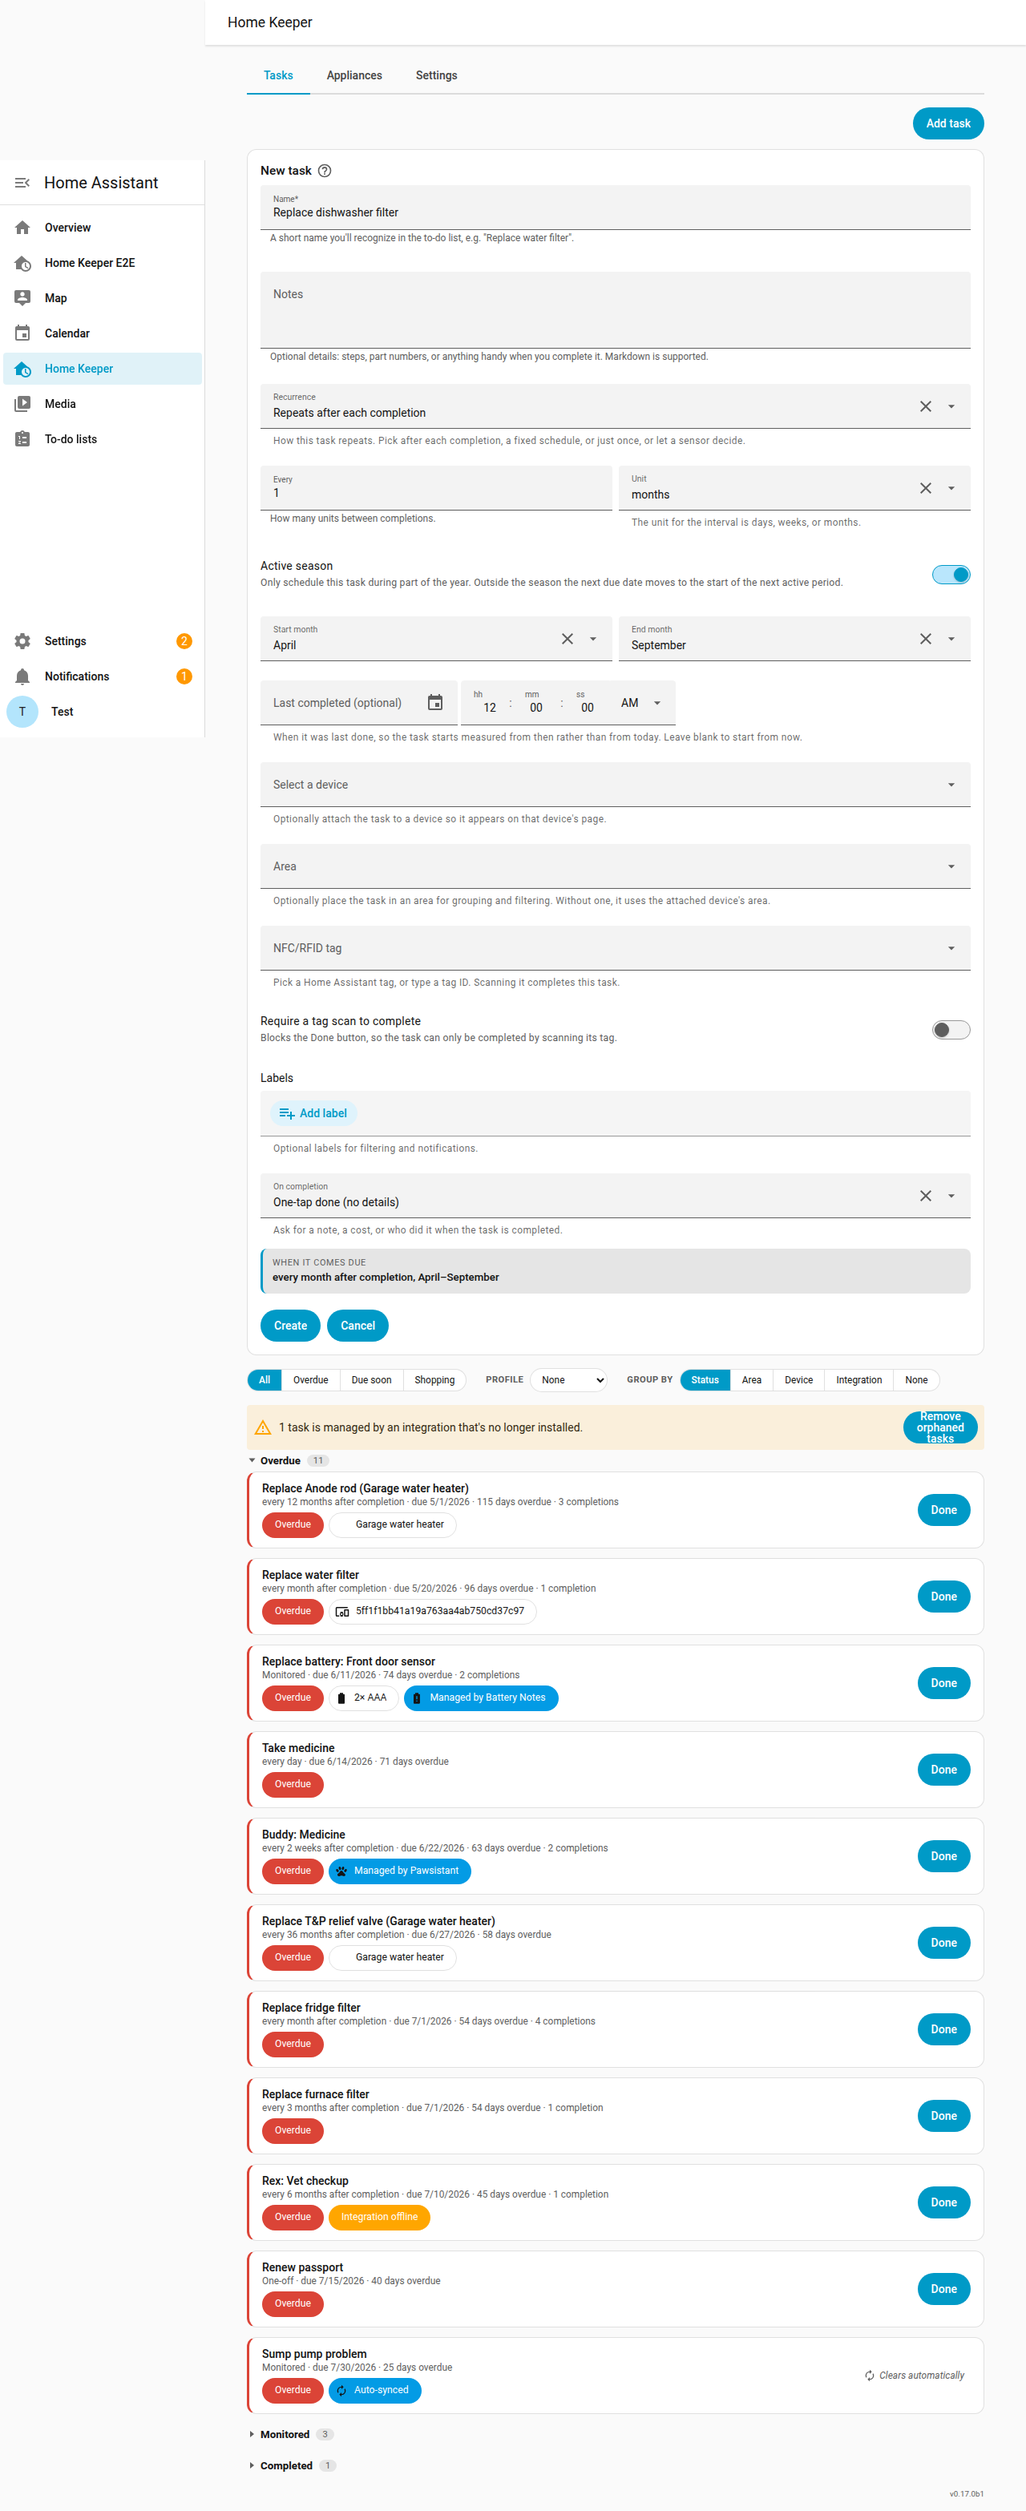
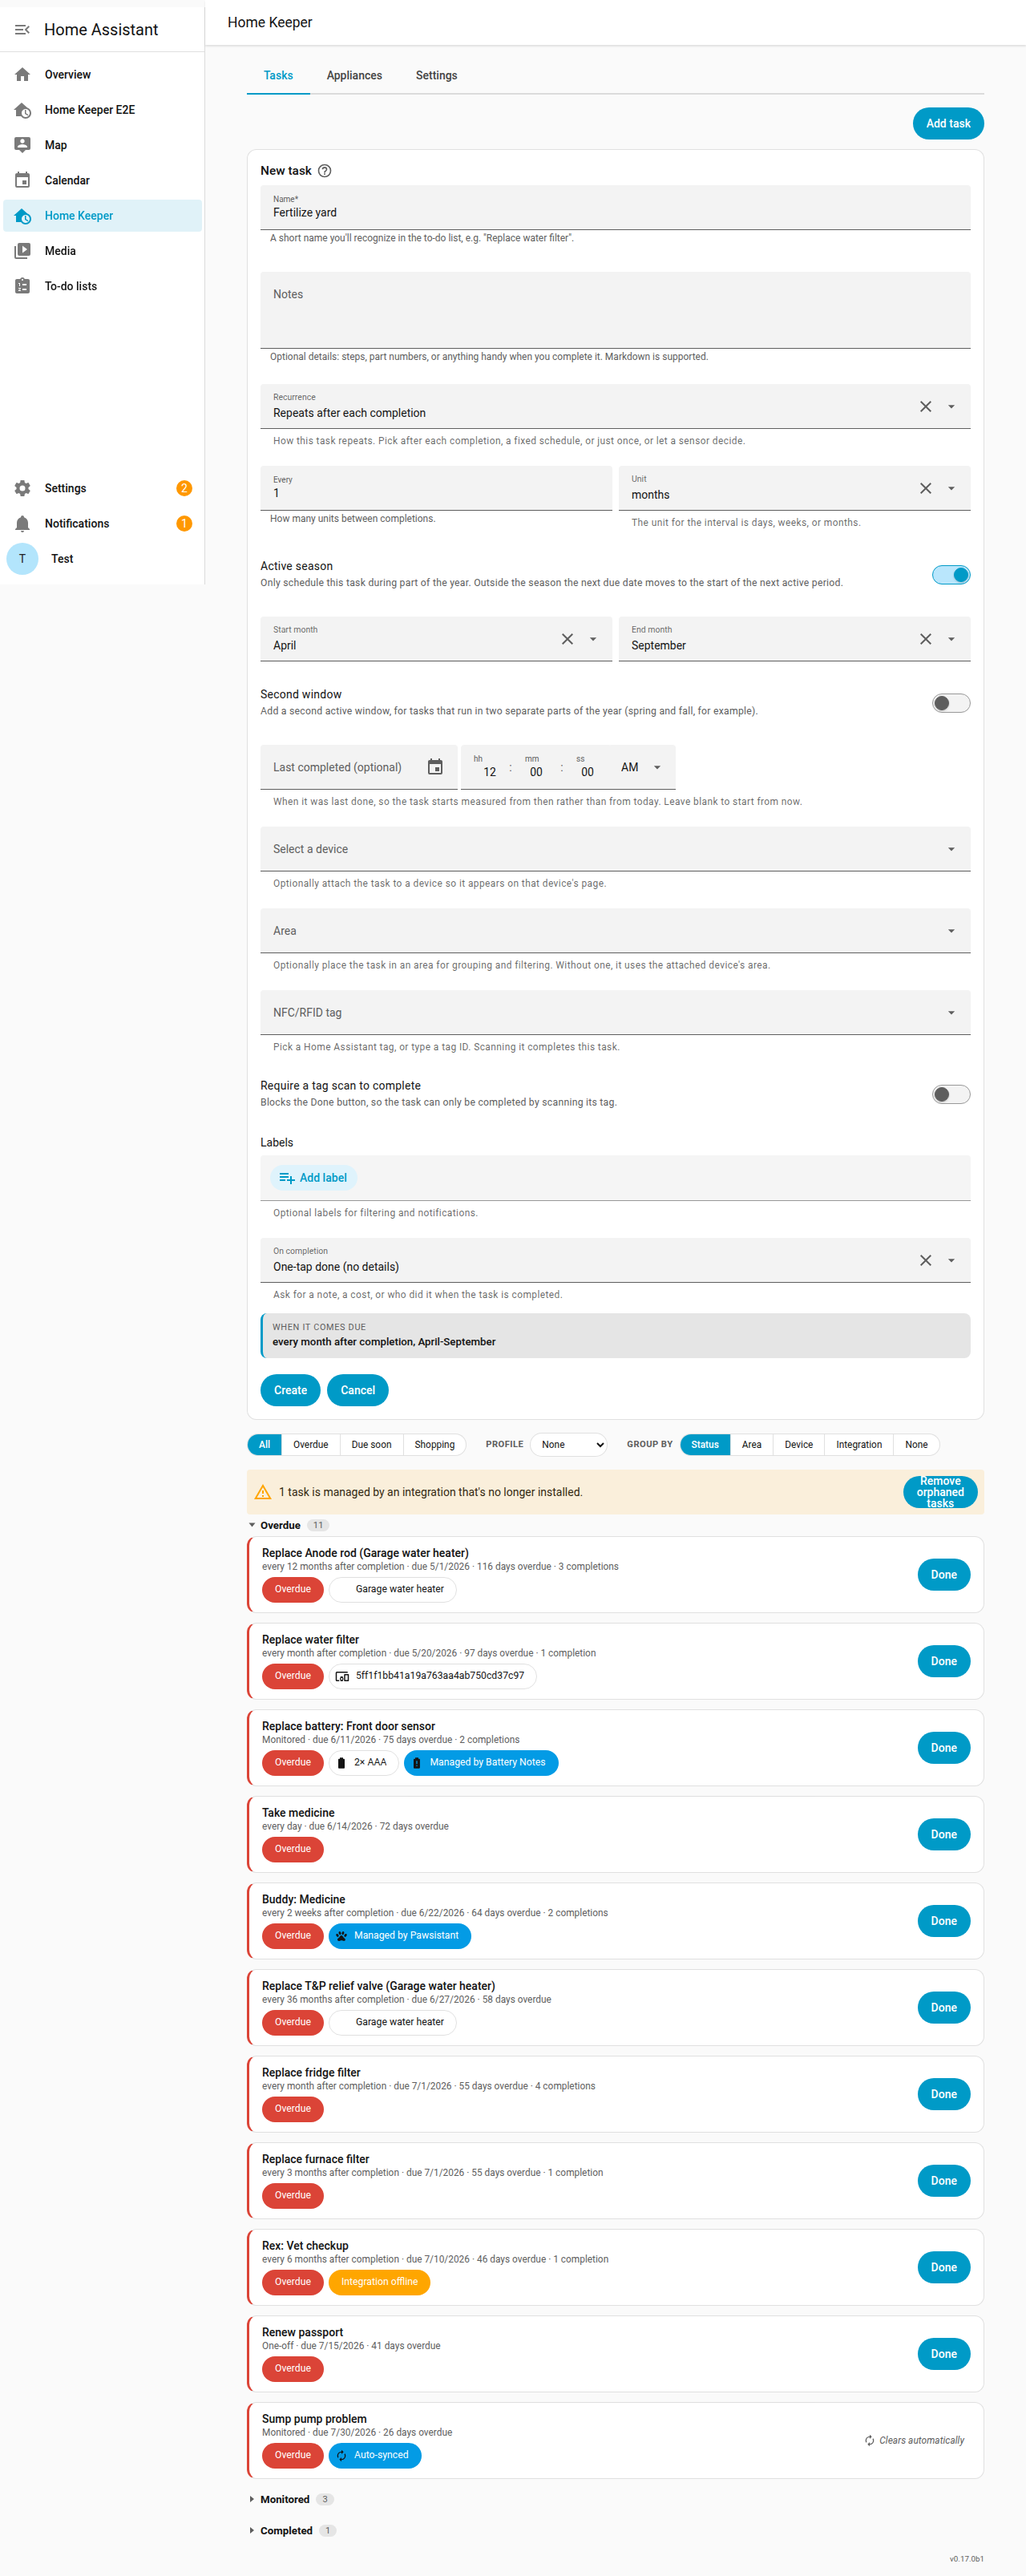
docs: capture season UI screenshots (single + two windows)
Claude-Session: https://claude.ai/code/session_018kAPSgtvh2pr9a4EwhDaoH

diff --git a/tests/e2e/screenshots.capture.ts b/tests/e2e/screenshots.capture.ts
@@ -468,7 +468,18 @@ test('capture Home Keeper panel + usage screenshots', async ({ page }) => {
   await expect(panel.locator('#hk-task-form ha-select').nth(2)).toBeVisible();
   await page.waitForTimeout(400);
   await page.screenshot({ path: `${OUT}/3b-panel-create-season.png`, fullPage: true });
-  // Turn season off again and switch back to fixed for the next shot.
+
+  // 3c. Second active-season window — tasks like lawn care run in spring and fall.
+  const secondWindowSwitch = panel.locator('#hk-task-form ha-selector-boolean ha-switch').nth(1);
+  if (!(await secondWindowSwitch.evaluate((el: HTMLInputElement) => el.checked))) {
+    await secondWindowSwitch.click();
+  }
+  await page.waitForTimeout(400);
+  await page.screenshot({ path: `${OUT}/3c-panel-create-season-two-windows.png`, fullPage: true });
+  // Turn both off for the next shot.
+  if (await secondWindowSwitch.evaluate((el: HTMLInputElement) => el.checked)) {
+    await secondWindowSwitch.click();
+  }
   if (await seasonSwitch.evaluate((el: HTMLInputElement) => el.checked)) {
     await seasonSwitch.click();
   }
